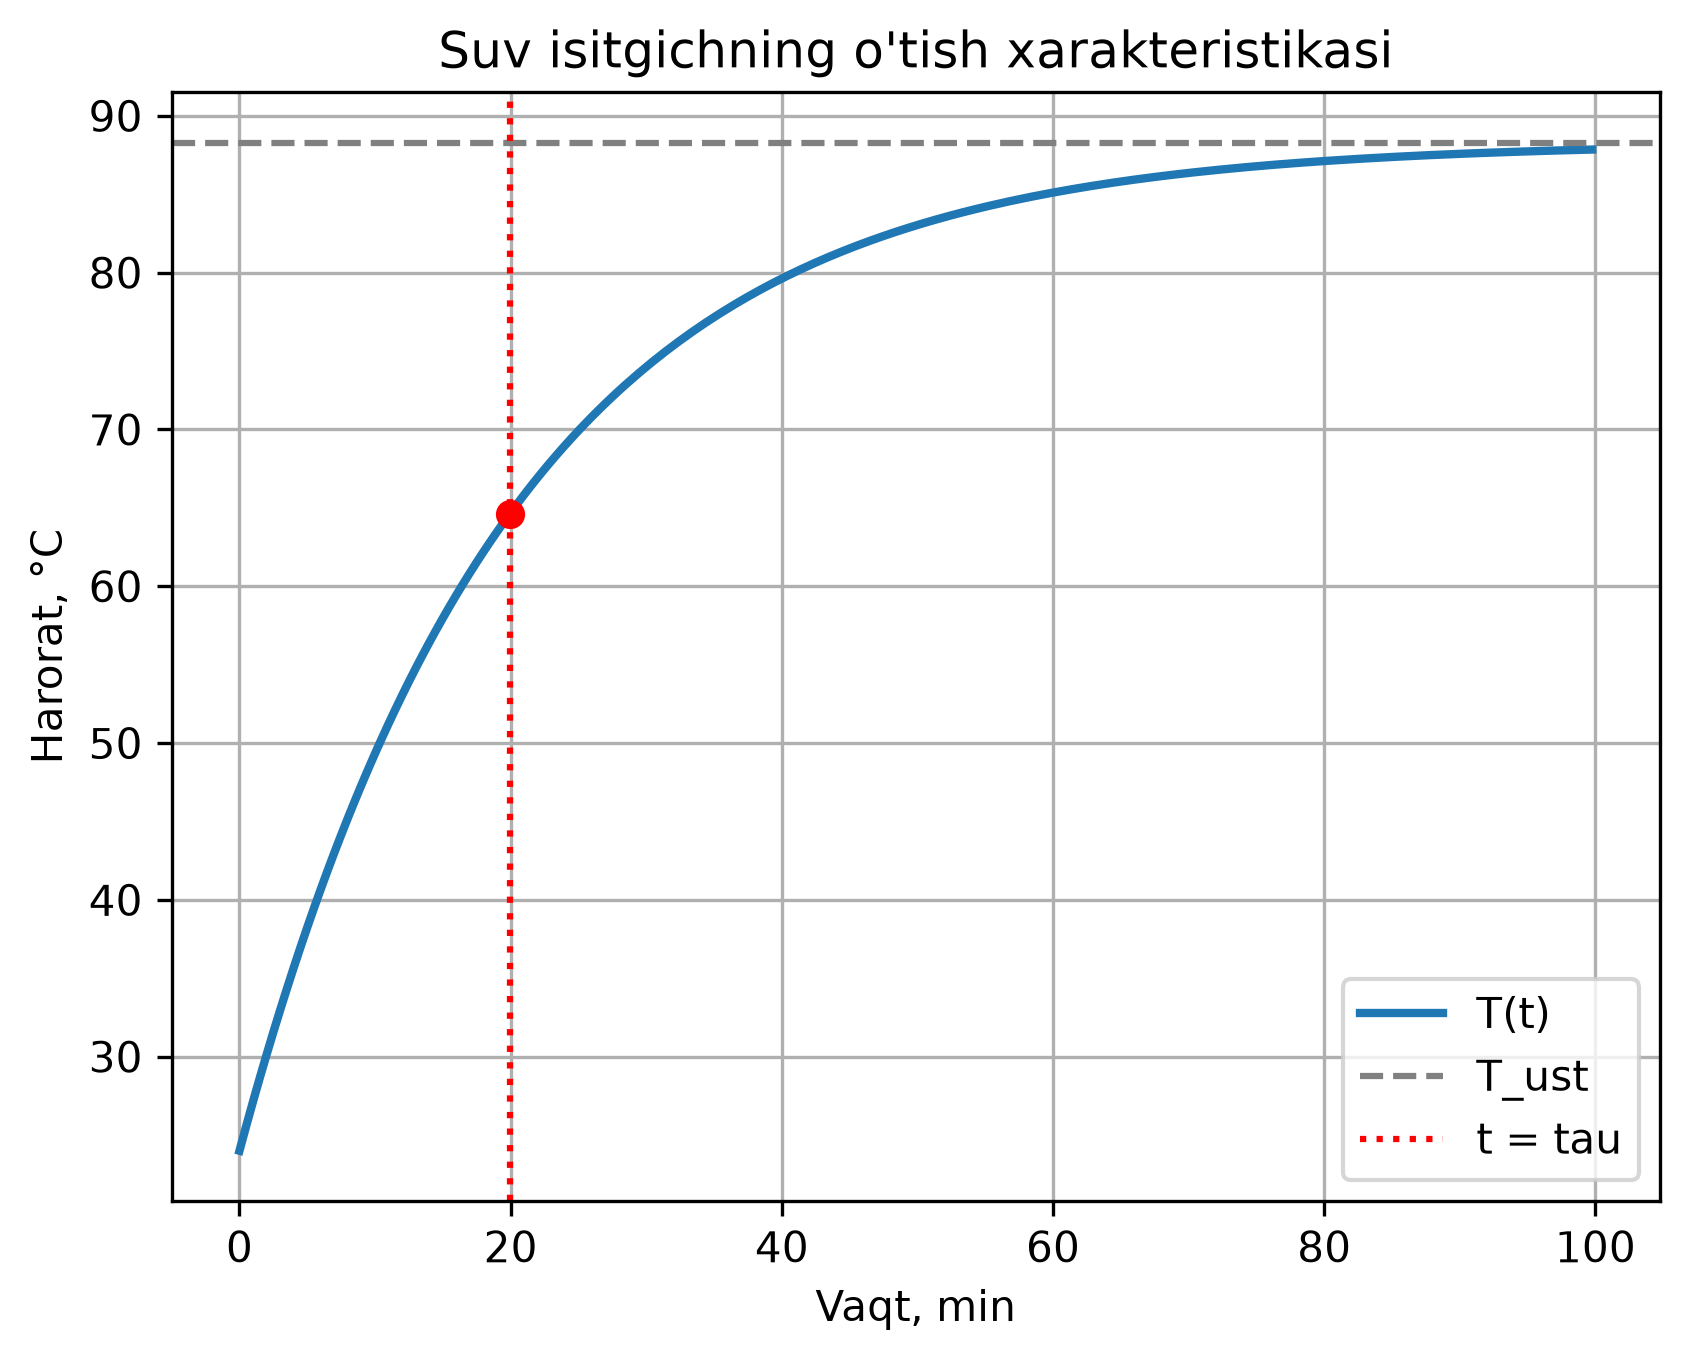
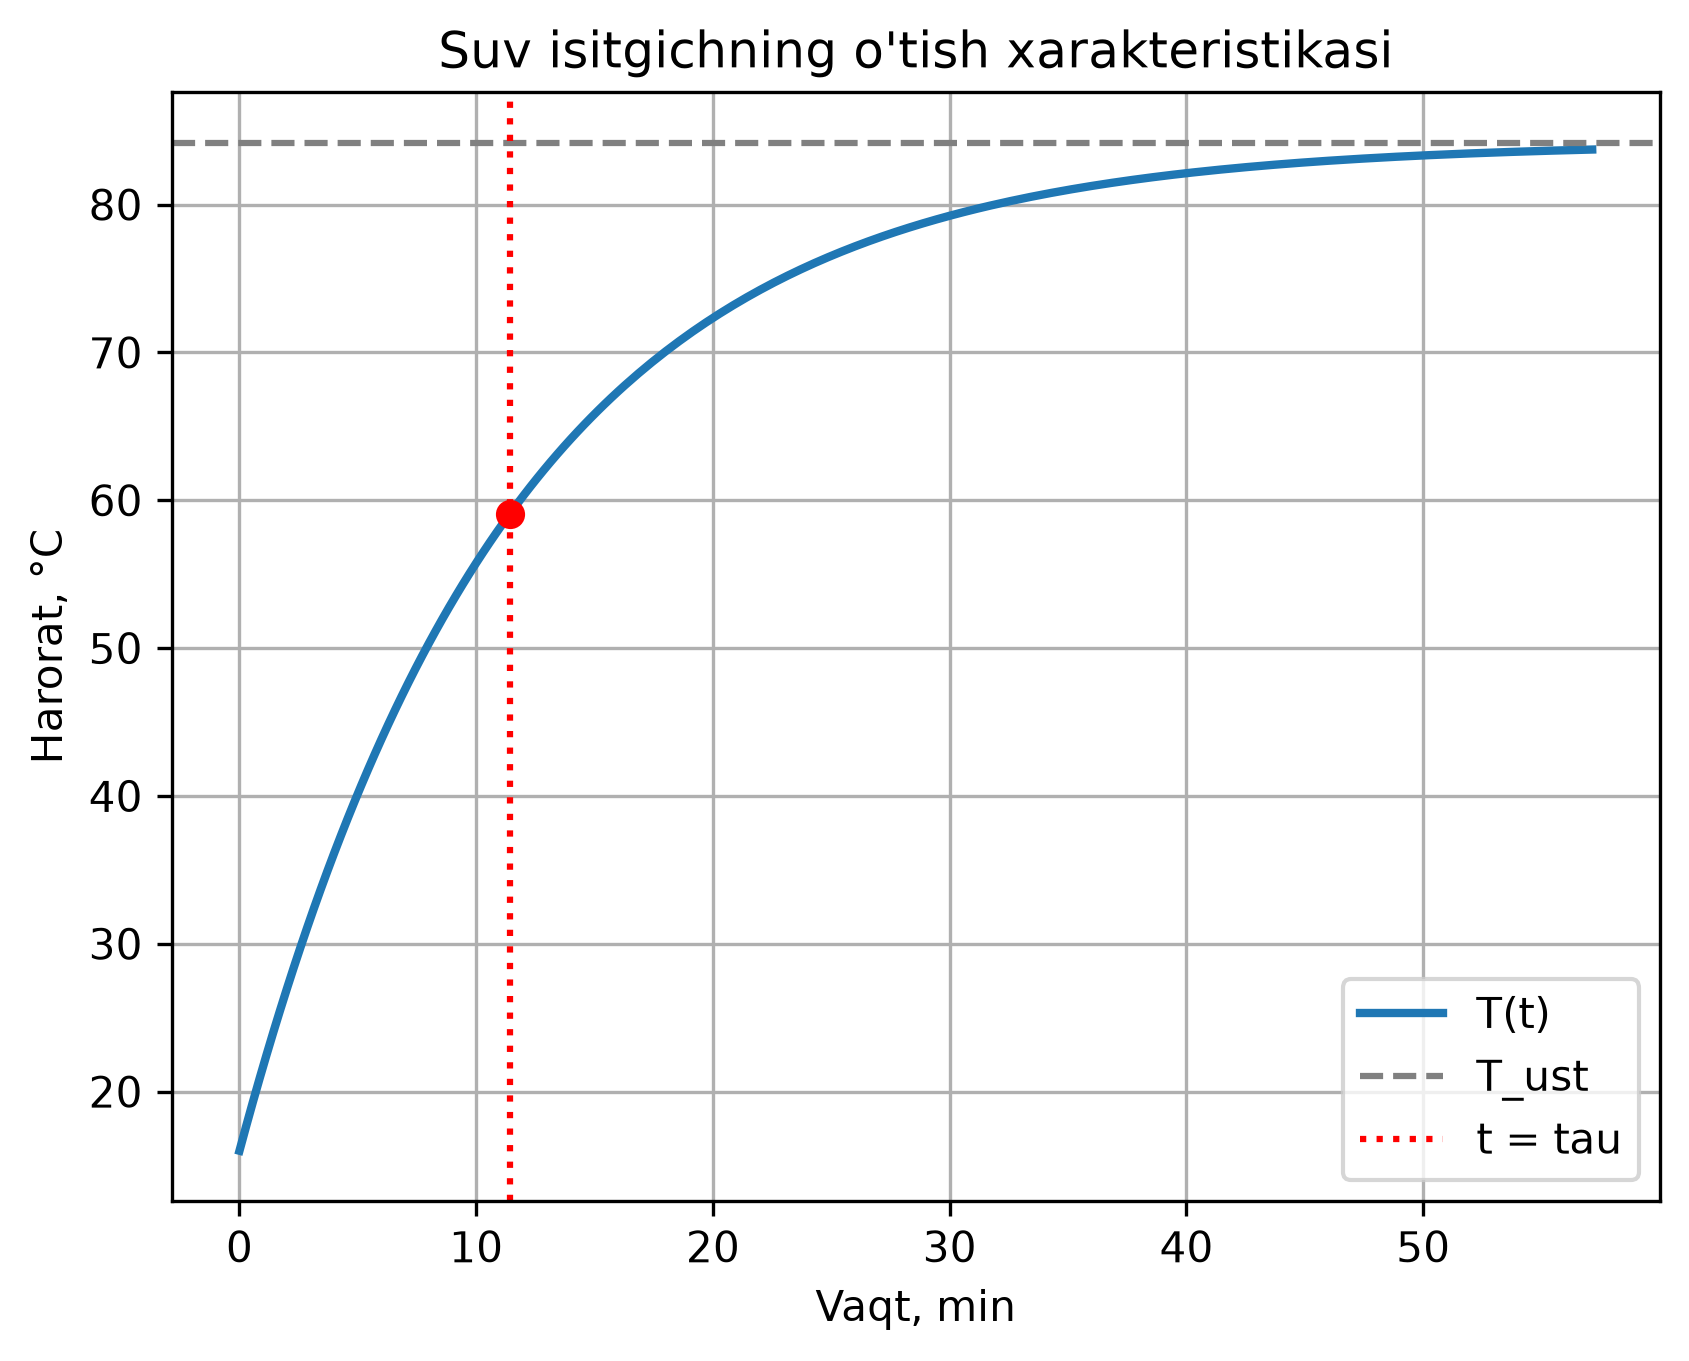
dynamic characteristic

diff --git a/existision.py b/existision.py
@@ -2,10 +2,10 @@ import math
 import matplotlib.pyplot as plt
  
 # ===== 1. Variant ma'lumotlarini kiriting =====
-m  = 2.0     # suv massasi, kg
-P  = 450     # isitgich quvvati, W
-k  = 7       # issiqlik yo'qotish koeffitsiyenti, W/°C
-T0 = 24      # boshlang'ich (atrof-muhit) harorati, °C
+m  = 1.8     # suv massasi, kg
+P  = 750    # isitgich quvvati, W
+k  = 11     # issiqlik yo'qotish koeffitsiyenti, W/°C
+T0 = 16     # boshlang'ich (atrof-muhit) harorati, °C
 c  = 4190    # suvning solishtirma issiqlik sig'imi, J/(kg·°C)
  
 # ===== 2. Dinamik parametrlarni hisoblash =====

diff --git a/amaliy_ish.py b/amaliy_ish.py
@@ -1,10 +1,10 @@
 import math
 import matplotlib.pyplot as plt
 
-m = 2.0
-P = 520
-k = 10
-T0 = 20
+m = float(input("suv massasi, kg: "))
+P = float(input("isitgich quvvati, W: "))
+k = float(input("issiqlik yo'qotish koeffitsiyenti, W/°C: "))
+T0 = float(input("boshlang'ich (atrof-muhit) harorati, °C: "))
 
 c = 4190
 
